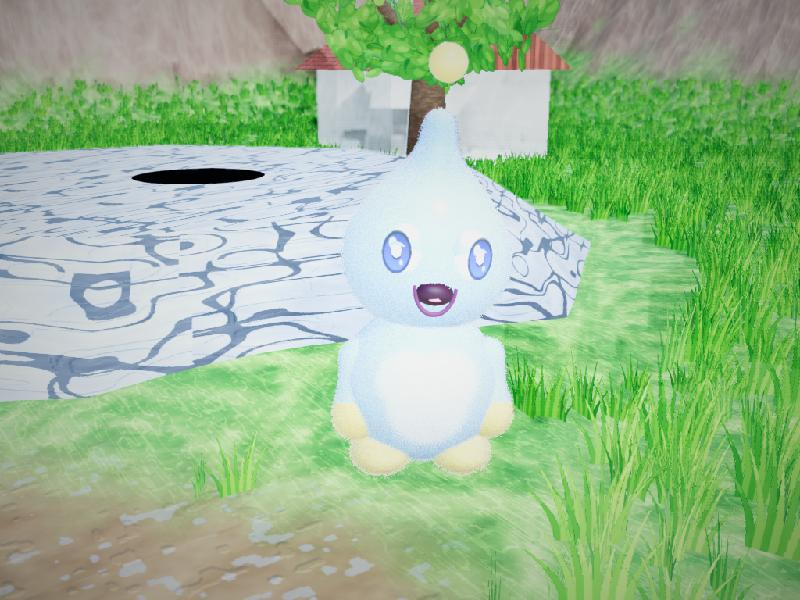
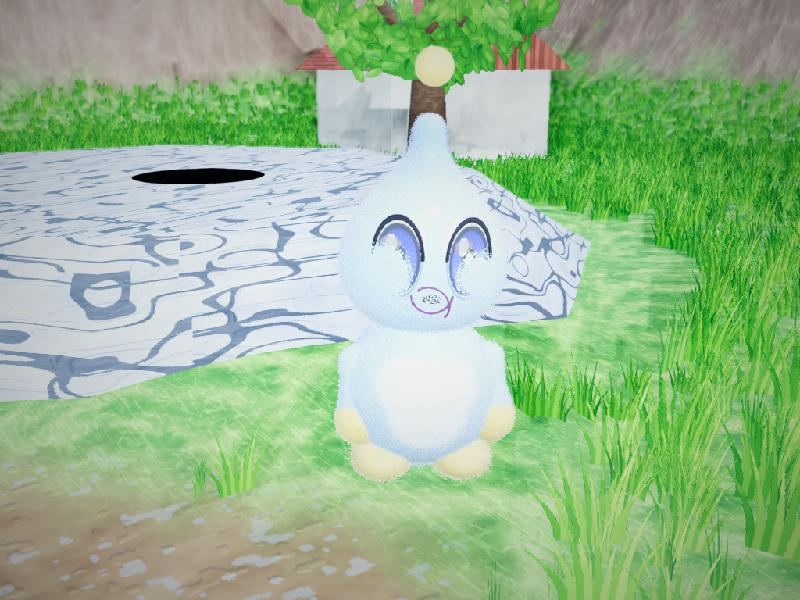
Eyes set into the face with liner, almond shape and full iris; mouths in the surface
Flattened eyeball sunk into the head, iris disc filling the eye, dark top
liner, wet highlight, lids tilted back; lip line on the face with the
interior behind it, tilted to follow the face.

diff --git a/src/samples/species.ts b/src/samples/species.ts
@@ -85,6 +85,8 @@ export interface SpeciesSpec {
     yaw: number;
     lid: number;
     irisScale: number;
+    /** Tilt of each eye to follow the face, radians. */
+    pitch?: number;
   };
   mouth: {
     x: number;
@@ -94,6 +96,8 @@ export interface SpeciesSpec {
     lip: string;
     teeth: boolean;
     tongue: string;
+    /** Tilt of the mouth to follow the face, radians; down and out by default. */
+    pitch?: number;
   };
   wings?: { x: number; y: number; z: number; size: number; color: string };
   /** The Chao emote ball, if the species has one. */
@@ -135,22 +139,27 @@ interface Mouth {
   open(amount: number): void;
 }
 
-/** A modelled mouth: a dark interior that opens, a tongue, teeth, and a lip. */
+/**
+ * A modelled mouth set into the face: a thin lip line on the surface, and behind it a
+ * dark interior that only shows as the mouth opens, with a tongue and teeth inside.
+ */
 function buildMouth(parent: THREE.Object3D, m: SpeciesSpec['mouth']): Mouth {
   const g = new THREE.Group();
   g.position.set(m.x, m.y, m.z);
+  // Tilt to follow the face: a mouth below the head's centre looks down and out.
+  g.rotation.x = m.pitch ?? 0.28;
   const w = m.width;
   const interior = add(
     g,
     new THREE.Mesh(
-      new THREE.SphereGeometry(1, 24, 16),
-      new THREE.MeshPhysicalMaterial({ color: '#3a1424', roughness: 0.6 }),
+      new THREE.SphereGeometry(1, 28, 18),
+      new THREE.MeshPhysicalMaterial({ color: '#3a1424', roughness: 0.7 }),
     ),
     0,
     0,
-    -w * 0.25,
+    -w * 0.42,
   );
-  interior.scale.set(w * 0.5, w * 0.04, w * 0.42);
+  interior.scale.set(w * 0.5, w * 0.03, w * 0.44);
   interior.castShadow = false;
   const tongue = add(
     g,
@@ -159,11 +168,12 @@ function buildMouth(parent: THREE.Object3D, m: SpeciesSpec['mouth']): Mouth {
       glossy(m.tongue, { roughness: 0.35, clearcoat: 0.6 }),
     ),
     0,
-    -w * 0.08,
-    -w * 0.12,
+    -w * 0.1,
+    -w * 0.3,
   );
   tongue.scale.set(w * 0.26, w * 0.08, w * 0.3);
   tongue.visible = false;
+  tongue.castShadow = false;
   const teeth: THREE.Mesh[] = [];
   if (m.teeth) {
     for (const dx of [-0.6, 0.6]) {
@@ -174,36 +184,48 @@ function buildMouth(parent: THREE.Object3D, m: SpeciesSpec['mouth']): Mouth {
           new THREE.MeshPhysicalMaterial({ color: '#fbf6ea', roughness: 0.3 }),
         ),
         dx * w * 0.5,
-        w * 0.05,
-        w * 0.1,
+        w * 0.04,
+        -w * 0.12,
       );
       t.rotation.x = Math.PI;
       t.visible = false;
+      t.castShadow = false;
       teeth.push(t);
     }
   }
+  // The lip line lies on the surface; it widens into a ring as the mouth opens.
+  const lipMat = new THREE.MeshPhysicalMaterial({ color: m.lip, roughness: 0.6 });
   const lip = add(
     g,
-    new THREE.Mesh(
-      new THREE.TorusGeometry(w * 0.5, w * 0.045, 8, 24, Math.PI),
-      new THREE.MeshPhysicalMaterial({ color: m.lip, roughness: 0.6 }),
-    ),
+    new THREE.Mesh(new THREE.TorusGeometry(w * 0.5, w * 0.03, 8, 28, Math.PI), lipMat),
     0,
     w * 0.02,
-    0,
+    0.005,
   );
   lip.rotation.z = Math.PI;
+  lip.castShadow = false;
+  const lower = add(
+    g,
+    new THREE.Mesh(new THREE.TorusGeometry(w * 0.5, w * 0.03, 8, 28, Math.PI), lipMat),
+    0,
+    w * 0.02,
+    0.005,
+  );
+  lower.rotation.z = Math.PI;
+  lower.castShadow = false;
   parent.add(g);
   return {
     group: g,
     open: (amount) => {
       const k = THREE.MathUtils.clamp(amount, 0, 1);
-      interior.scale.y = w * (0.04 + k * 0.36);
-      interior.position.y = -w * k * 0.18;
-      lip.position.y = w * 0.02 + k * w * 0.05;
-      lip.scale.set(1, 1 + k * 0.5, 1);
+      interior.scale.y = w * (0.03 + k * 0.34);
+      interior.position.y = -w * k * 0.16;
+      // The upper lip stays; the lower lip drops and flips into a ring.
+      lower.position.y = w * 0.02 - k * w * 0.34;
+      lower.rotation.z = Math.PI + k * Math.PI;
+      lower.scale.set(1, 0.2 + k * 0.8, 1);
       tongue.visible = k > 0.25;
-      tongue.position.y = -w * (0.08 + k * 0.22);
+      tongue.position.y = -w * (0.1 + k * 0.2);
       for (const t of teeth) t.visible = k > 0.3;
     },
   };
@@ -310,6 +332,7 @@ export function buildSpecies(spec: SpeciesSpec): Rigged {
       side * e.yaw,
       e.lid,
       e.irisScale,
+      e.pitch ?? 0,
     );
     lids.push(r.lid);
   }
@@ -495,7 +518,7 @@ export function buildSpecies(spec: SpeciesSpec): Rigged {
     }
     mouth.open(mouthOpen);
     if (lidClose > 0)
-      for (const l of lids) l.rotation.x = (l.userData.base as number) + lidClose * 1.5;
+      for (const l of lids) l.rotation.x = (l.userData.base as number) + lidClose * 1.9;
     else blink(lids, t, 0.6);
   };
   return {

diff --git a/src/samples/creatures.ts b/src/samples/creatures.ts
@@ -406,7 +406,11 @@ function irisTexture(color: string): THREE.CanvasTexture {
   return t;
 }
 
-/** A big cartoon eye: glossy white, a painted iris disc, and an upper lid of body colour. */
+/**
+ * An anime-style eye set into the face: a tall almond, the iris filling almost all of
+ * it, a dark liner along the top lid, a wet highlight, and a hinged lid of body
+ * colour. The eyeball is flattened and sunk into the head so only its front shows.
+ */
 export function eye(
   parent: THREE.Object3D,
   x: number,
@@ -417,51 +421,100 @@ export function eye(
   lidColor: string,
   yaw: number,
   lid = 0.25,
-  irisScale = 0.72,
+  irisScale = 0.9,
+  pitch = 0,
 ): { group: THREE.Group; lid: THREE.Mesh } {
   const g = new THREE.Group();
   g.position.set(x, y, z);
-  g.rotation.y = yaw;
+  g.rotation.set(pitch, yaw, 0);
+  const tall = 1.45;
+  // The eyeball: a flattened sphere, most of it inside the head.
   const white = add(
     g,
-    new THREE.Mesh(new THREE.SphereGeometry(r, 28, 20), glossy('#ffffff', { roughness: 0.06 })),
+    new THREE.Mesh(new THREE.SphereGeometry(r, 32, 24), glossy('#fbfbff', { roughness: 0.05 })),
     0,
     0,
-    0,
+    -r * 0.3,
   );
-  white.scale.set(1, 1.25, 0.75);
+  white.scale.set(1, tall, 0.5);
+  white.castShadow = false;
+  // The iris disc covers most of the eye and carries the pupil and catchlights.
   const disc = add(
     g,
     new THREE.Mesh(
-      new THREE.CircleGeometry(r * irisScale, 32),
+      new THREE.CircleGeometry(r * irisScale, 40),
       new THREE.MeshPhysicalMaterial({
         map: irisTexture(iris),
         transparent: true,
-        roughness: 0.05,
+        roughness: 0.04,
         clearcoat: 1,
-        clearcoatRoughness: 0.05,
+        clearcoatRoughness: 0.03,
       }),
     ),
     0,
-    -r * 0.04,
-    r * 0.72,
+    -r * 0.02,
+    r * 0.19,
   );
-  disc.scale.set(1, 1.28, 1);
+  disc.scale.set(1, tall * 0.98, 1);
   disc.castShadow = false;
+  // A soft wet highlight across the upper eye.
+  const gloss = add(
+    g,
+    new THREE.Mesh(
+      new THREE.CircleGeometry(r * 0.42, 24),
+      new THREE.MeshBasicMaterial({ color: '#ffffff', transparent: true, opacity: 0.75 }),
+    ),
+    -r * 0.28,
+    r * 0.52,
+    r * 0.2,
+  );
+  gloss.scale.set(1, 0.55, 1);
+  gloss.castShadow = false;
+  // The liner: a dark arc hugging the top edge, thicker toward the outer corner.
+  const liner = add(
+    g,
+    new THREE.Mesh(
+      new THREE.TorusGeometry(r * 1.0, r * 0.075, 8, 28, Math.PI),
+      new THREE.MeshPhysicalMaterial({ color: '#1a1420', roughness: 0.5 }),
+    ),
+    0,
+    0,
+    r * 0.2,
+  );
+  liner.scale.set(1, tall, 0.6);
+  liner.castShadow = false;
+  const under = add(
+    g,
+    new THREE.Mesh(
+      new THREE.TorusGeometry(r * 0.98, r * 0.03, 6, 28, Math.PI),
+      new THREE.MeshPhysicalMaterial({
+        color: '#3a2a30',
+        roughness: 0.6,
+        transparent: true,
+        opacity: 0.6,
+      }),
+    ),
+    0,
+    0,
+    r * 0.19,
+  );
+  under.scale.set(1, tall, 0.6);
+  under.rotation.z = Math.PI;
+  under.castShadow = false;
+  // The lid: a half-shell hinged at the eye, tilted back by the species' lid amount
+  // and swung down over the eye to blink or sleep.
   const lidMesh = add(
     g,
     new THREE.Mesh(
-      new THREE.SphereGeometry(r * 1.07, 28, 14, 0, Math.PI * 2, 0, Math.PI * 0.52),
+      new THREE.SphereGeometry(r * 1.08, 32, 16, 0, Math.PI * 2, 0, Math.PI * 0.52),
       new THREE.MeshPhysicalMaterial({ color: lidColor, roughness: 0.6, sheen: 0.3 }),
     ),
     0,
     0,
-    0,
+    -r * 0.28,
   );
-  lidMesh.scale.set(1, 1.25, 0.78);
-  // The lid is a half-shell hinged at the eye: it rests tilted back by the species' lid
-  // amount and swings down over the eye to blink or sleep.
-  lidMesh.userData.base = -0.9 + lid * 2.2;
+  lidMesh.scale.set(1, tall, 0.55);
+  lidMesh.userData.base = -1.35 + lid * 2.0;
   lidMesh.rotation.x = lidMesh.userData.base;
   parent.add(g);
   return { group: g, lid: lidMesh };
@@ -505,7 +558,7 @@ export function breathe(g: THREE.Group, base: number, t: number, rate = 2.2, amo
 export function blink(lids: THREE.Mesh[], t: number, phase: number, every = 4.2): void {
   const cycle = (t + phase) % every;
   const k = cycle < 0.2 ? Math.sin((cycle / 0.2) * Math.PI) : 0;
-  for (const l of lids) l.rotation.x = (l.userData.base as number) + k * 1.5;
+  for (const l of lids) l.rotation.x = (l.userData.base as number) + k * 1.9;
 }
 
 /** Thin vein capsules radiating inside a wing, so the membrane reads as a wing. */

diff --git a/src/samples/species-data.ts b/src/samples/species-data.ts
@@ -182,15 +182,25 @@ export const NUBBIN_SPEC: SpeciesSpec = {
   eyes: {
     x: 0.27,
     y: 2.0,
-    z: 0.56,
-    r: 0.18,
+    z: 0.58,
+    r: 0.23,
     iris: '#2a4fd0',
     lidColor: nubbinBody,
-    yaw: 0.6,
-    lid: 0.22,
-    irisScale: 0.78,
+    yaw: 0.55,
+    lid: 0.2,
+    irisScale: 0.92,
+    pitch: 0.08,
   },
-  mouth: { x: 0, y: 1.72, z: 0.7, width: 0.34, lip: '#6a3a5a', teeth: false, tongue: '#ff8aa0' },
+  mouth: {
+    x: 0,
+    y: 1.7,
+    z: 0.66,
+    width: 0.34,
+    lip: '#6a3a5a',
+    teeth: false,
+    tongue: '#ff8aa0',
+    pitch: 0.3,
+  },
   wings: { x: 0.42, y: 1.15, z: -0.6, size: 1, color: '#f6faff' },
   ball: { y: 3.5, color: nubbinTip },
 };
@@ -498,13 +508,23 @@ export const FENNEL_SPEC: SpeciesSpec = {
   eyes: {
     x: 0.27,
     y: 1.88,
-    z: 1.02,
-    r: 0.17,
+    z: 1.0,
+    r: 0.2,
     iris: '#4a9a3a',
     lidColor: fur,
-    yaw: 0.7,
-    lid: 0.3,
-    irisScale: 0.74,
+    yaw: 0.65,
+    lid: 0.28,
+    irisScale: 0.9,
+    pitch: 0.05,
   },
-  mouth: { x: 0, y: 1.3, z: 1.22, width: 0.3, lip: '#3a2420', teeth: true, tongue: '#ff8a9a' },
+  mouth: {
+    x: 0,
+    y: 1.32,
+    z: 1.26,
+    width: 0.3,
+    lip: '#3a2420',
+    teeth: true,
+    tongue: '#ff8a9a',
+    pitch: 0.55,
+  },
 };

diff --git a/PROGRESS.md b/PROGRESS.md
@@ -43,6 +43,18 @@ Fennel as templates, and the format the roster will be written in.
 - `?aaa=1&creature=1` and `&creature=3` now come from the specs; Mossling, Bolder and
   Wisp stay hand-built until ported. Screenshots: `docs/samples/pose-*.jpg`.
 
+**Eyes and mouths, redone against the reference** (Maor: "the eyes look nothing like the
+image I provided … the mouth also looks like its falling off"). The eye is now set
+into the face: a flattened eyeball sunk into the head with only its front showing, a
+tall almond, the iris disc filling almost the whole eye, a dark liner hugging the
+top lid (thicker toward the outer corner), a faint lower line, a soft wet highlight
+across the upper eye, and the hinged lid tilted well back at rest. Eyes are bigger
+and tilted to follow the face (`pitch`). The mouth sits in the surface: a thin lip
+line on the face, the dark interior behind the surface so it only shows as the mouth
+opens, the lower lip dropping into a ring, the whole mouth tilted down and out to
+follow the face (`pitch`). Shots: `pose-nubbin-idle/happy/sleep.jpg`,
+`pose-fennel-idle.jpg`.
+
 **Still to do from the list**: grounding (contact shadows, grass parting), material
 tuning per species, eyes that track a point, and then the port of the other three
 and the Keeper.
